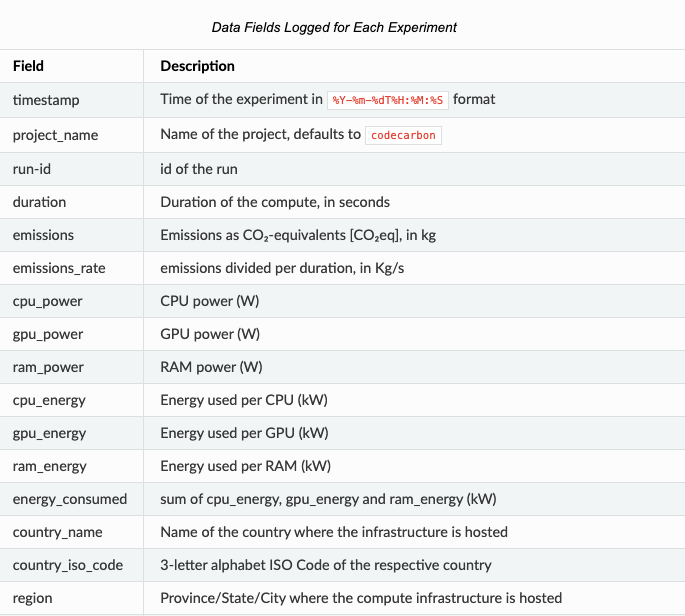
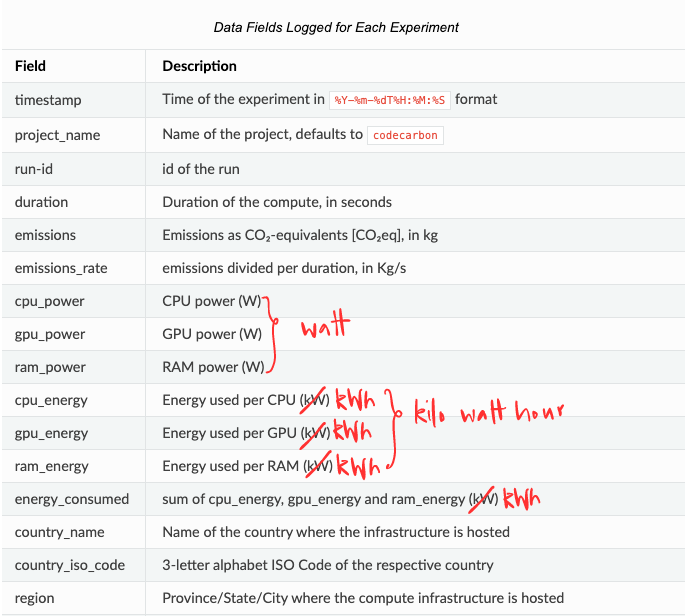
fixed codecarbon legend

diff --git a/README.md b/README.md
@@ -312,7 +312,8 @@ I have incorporated some of the profilers into the `baler` codebase and made mul
 
 Apart from this, most of my work and experiments can be found **unorganized**, across the various branches of the repositories [sanam2405/baler](https://github.com/sanam2405/baler) and [sanam2405/SoftwareEnergyCost](https://github.com/sanam2405/SoftwareEnergyCost/tree/testing) and inside the [profling](https://github.com/sanam2405/SoftwareEnergyCost/tree/main/profiling) folder of this repository
 
-##
+## References
+
 [1] Baler - Machine Learning Based Compression of Scientific Data &nbsp; ([**LINK**🔗](https://arxiv.org/pdf/2305.02283.pdf))
 
 [2] Towards the Systematic Reporting of the Energy and Carbon
